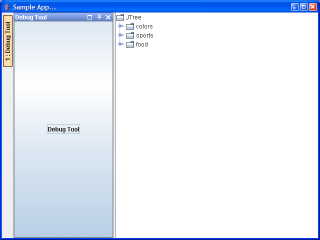
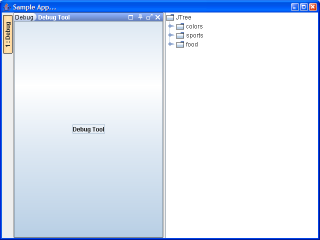
some updates...

Changed region(s): [[0.125, 0.0292, 0.625, 0.9917], [0.0, 0.0875, 0.0625, 0.2917], [0.0312, 0.0292, 0.2188, 0.0875]]

diff --git a/mydoggy-examples/src/main/java/org/noos/xing/mydoggy/tutorial/SampleApp.java b/mydoggy-examples/src/main/java/org/noos/xing/mydoggy/tutorial/SampleApp.java
@@ -6,7 +6,6 @@ import org.noos.xing.mydoggy.event.ContentManagerUIEvent;
 import org.noos.xing.mydoggy.plaf.MyDoggyToolWindowManager;
 
 import javax.swing.*;
-import java.awt.*;
 import java.awt.event.ActionEvent;
 
 public class SampleApp {
@@ -48,11 +47,12 @@ public class SampleApp {
         this.toolWindowManager = myDoggyToolWindowManager;
 
         // Register a Tool.
-        toolWindowManager.registerToolWindow("Debug",                   // Id
-                                             "Debugging" ,              // Title
-                                             null,                      // Icon
-                                             new JButton("Debugging"),  // Component
-                                             ToolWindowAnchor.LEFT);    // Anchor
+        toolWindowManager.registerToolWindow("Debug",                      // Id
+                                             "Debug Tool",                 // Title
+                                             null,                         // Icon
+                                             new JButton("Debug Tool"),    // Component
+                                             ToolWindowAnchor.LEFT);       // Anchor
+
         setupDebugTool();
 
         // Made all tools available
@@ -65,12 +65,13 @@ public class SampleApp {
         this.frame.getContentPane().add(myDoggyToolWindowManager, "1,1,");
     }
 
-    protected void setupDebugTool() {
-        final ToolWindow debugTool = toolWindowManager.getToolWindow("Debug");
 
-        // Setup descriptors
+    protected void setupDebugTool() {
+        ToolWindow debugTool = toolWindowManager.getToolWindow("Debug");
+
         DockedTypeDescriptor dockedTypeDescriptor = (DockedTypeDescriptor) debugTool.getTypeDescriptor(ToolWindowType.DOCKED);
-        dockedTypeDescriptor.setDockLength(350);
+
+        dockedTypeDescriptor.setDockLength(300);
         dockedTypeDescriptor.setPopupMenuEnabled(true);
         JMenu toolsMenu = dockedTypeDescriptor.getToolsMenu();
         toolsMenu.add(new AbstractAction("Hello World!!!") {
@@ -98,8 +99,8 @@ public class SampleApp {
 
         FloatingTypeDescriptor floatingTypeDescriptor = (FloatingTypeDescriptor) debugTool.getTypeDescriptor(ToolWindowType.FLOATING);
         floatingTypeDescriptor.setEnabled(true);
-        floatingTypeDescriptor.setLocation(150, 200);
-        floatingTypeDescriptor.setSize(320, 200);
+        floatingTypeDescriptor.setLocation(150,200);
+        floatingTypeDescriptor.setSize(320,200);
         floatingTypeDescriptor.setModal(false);
         floatingTypeDescriptor.setTransparentMode(true);
         floatingTypeDescriptor.setTransparentRatio(0.2f);
@@ -116,17 +117,9 @@ public class SampleApp {
         profilingTab.setCloseable(true);
     }
 
-    public Container getFrame() {
-        return frame;
-    }
-
-    public void dispose() {
-        frame.setVisible(false);
-        frame.dispose();
-    }
 
     protected void initContentManager() {
-        JTree treeContent = new JTree();
+         JTree treeContent = new JTree();
 
         ContentManager contentManager = toolWindowManager.getContentManager();
         Content content = contentManager.addContent("Tree Key",
@@ -136,7 +129,8 @@ public class SampleApp {
         content.setToolTipText("Tree tip");
 
         setupContentManagerUI();
-    }
+     }
+
 
     protected void setupContentManagerUI() {
         TabbedContentManagerUI contentManagerUI = (TabbedContentManagerUI) toolWindowManager.getContentManager().getContentManagerUI();
@@ -153,6 +147,7 @@ public class SampleApp {
         });
 
         TabbedContentUI contentUI = contentManagerUI.getContentUI(toolWindowManager.getContentManager().getContent(0));
+
         contentUI.setCloseable(true);
         contentUI.setDetachable(true);
         contentUI.setTransparentMode(true);

diff --git a/mydoggy-examples/src/main/java/org/noos/xing/mydoggy/examples/mydoggyset/ui/MonitorPanel.java b/mydoggy-examples/src/main/java/org/noos/xing/mydoggy/examples/mydoggyset/ui/MonitorPanel.java
@@ -90,7 +90,7 @@ public class MonitorPanel extends JPanel {
             float usedMemory = monitorSource.getUsed();
             float freeMemory = totalMemory - usedMemory;
 
-            // .. Draw allocated and used strings ..
+            // Draw allocated and used strings
             backImageGrfx.setColor(Color.green);
             backImageGrfx.drawString(String.valueOf((int) totalMemory >> 10) + "K allocated", 4.0f, (float) ascent + 0.5f);
             String usedStr = String.valueOf(((int) usedMemory) >> 10) + "K used";
@@ -102,7 +102,7 @@ public class MonitorPanel extends JPanel {
             float blockHeight = remainingHeight / 10;
             float blockWidth = 20.0f;
 
-            // .. Memory Free ..
+            // Memory Free
             backImageGrfx.setColor(mfColor);
             int MemUsage = (int) (freeMemory / totalMemory * 10);
             int i = 0;
@@ -111,14 +111,14 @@ public class MonitorPanel extends JPanel {
                 backImageGrfx.fill(mfRect);
             }
 
-            // .. Memory Used ..
+            // Memory Used
             backImageGrfx.setColor(Color.green);
             for (; i < 10; i++) {
                 muRect.setRect(5, ssH + i * blockHeight, blockWidth, blockHeight - 1);
                 backImageGrfx.fill(muRect);
             }
 
-            // .. Draw History Graph ..
+            // Draw History Graph
             backImageGrfx.setColor(graphColor);
             int graphX = 30;
             int graphY = (int) ssH;
@@ -131,7 +131,7 @@ public class MonitorPanel extends JPanel {
                 backImageGrfx.draw(muRect);
             }
 
-            // .. Draw animated column movement ..
+            // Draw animated column movement
             int graphColumn = graphW / 15;
 
             if (columnInc == 0) {

diff --git a/mydoggy-examples/src/main/java/org/noos/xing/mydoggy/examples/mydoggyset/ui/RuntimeMemoryMonitorSource.java b/mydoggy-examples/src/main/java/org/noos/xing/mydoggy/examples/mydoggyset/ui/RuntimeMemoryMonitorSource.java
@@ -5,14 +5,14 @@ package org.noos.xing.mydoggy.examples.mydoggyset.ui;
  */
 public class RuntimeMemoryMonitorSource implements MonitorSource {
 
-    private Runtime r = Runtime.getRuntime();
+    private Runtime runtime = Runtime.getRuntime();
 
     public float getTotal() {
-        return r.totalMemory();
+        return runtime.totalMemory();
     }
 
     public float getUsed() {
-        return r.totalMemory() - r.freeMemory();
+        return runtime.totalMemory() - runtime.freeMemory();
     }
 
 }
